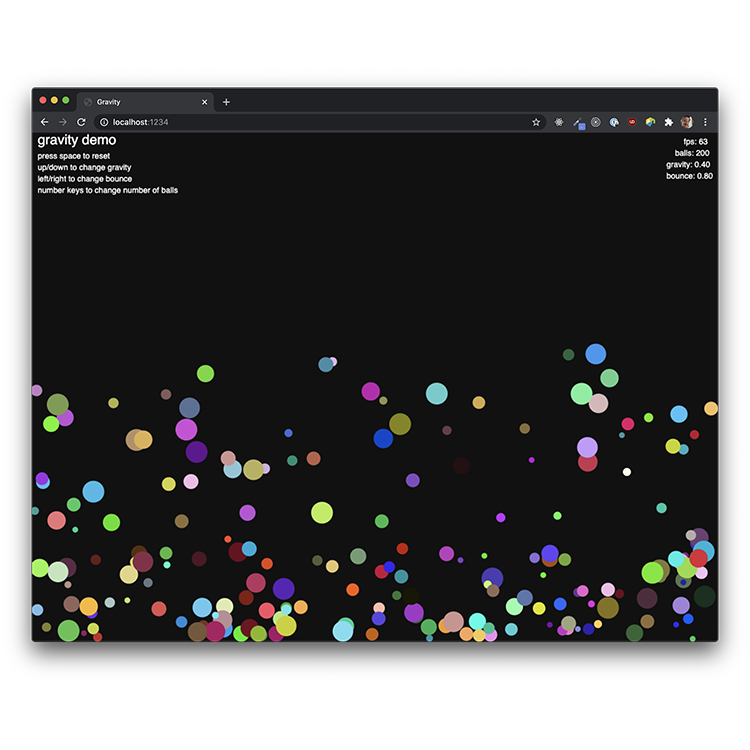
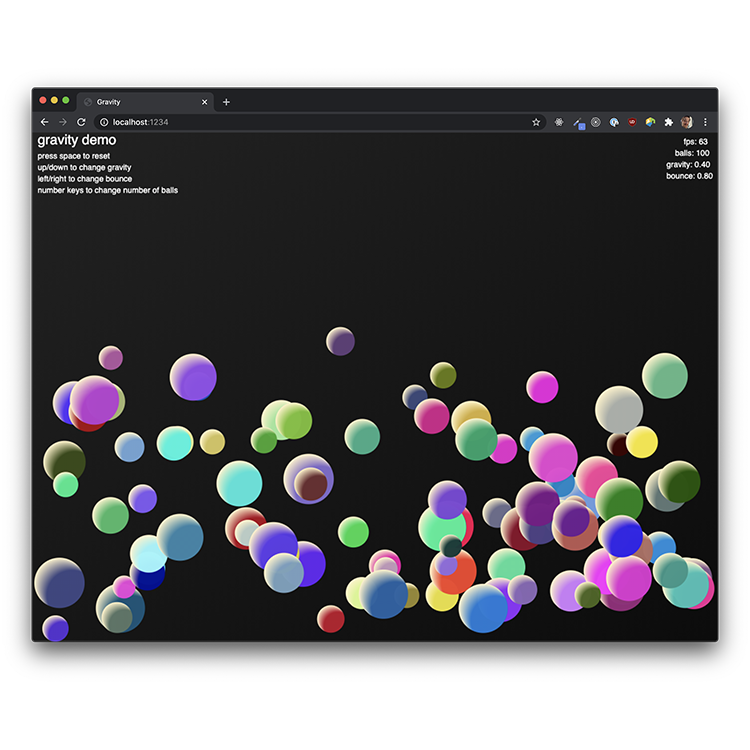
updated canvas gravity demo and card image

Changed region(s): [[0.0307, 0.46, 0.9507, 0.8587], [0.4293, 0.4293, 0.4907, 0.4907], [0.5213, 0.6133, 0.552, 0.644]]

diff --git a/pages/projects/canvas-gravity-demo/gravity.0707c32f.js b/pages/projects/canvas-gravity-demo/gravity.0707c32f.js
@@ -1,7 +1,6 @@
-<!doctype html><html><head><title>Gravity</title><style type="text/css">*,* *{margin:0;padding:0}body,html{overflow:hidden}
-/*# sourceMappingURL=/gravity.b14fdc02.css.map */</style></head><body> <canvas id="canvas" width="640" height="480"></canvas> <script>parcelRequire=function(e,r,t,n){var i,o="function"==typeof parcelRequire&&parcelRequire,u="function"==typeof require&&require;function f(t,n){if(!r[t]){if(!e[t]){var i="function"==typeof parcelRequire&&parcelRequire;if(!n&&i)return i(t,!0);if(o)return o(t,!0);if(u&&"string"==typeof t)return u(t);var c=new Error("Cannot find module '"+t+"'");throw c.code="MODULE_NOT_FOUND",c}p.resolve=function(r){return e[t][1][r]||r},p.cache={};var l=r[t]=new f.Module(t);e[t][0].call(l.exports,p,l,l.exports,this)}return r[t].exports;function p(e){return f(p.resolve(e))}}f.isParcelRequire=!0,f.Module=function(e){this.id=e,this.bundle=f,this.exports={}},f.modules=e,f.cache=r,f.parent=o,f.register=function(r,t){e[r]=[function(e,r){r.exports=t},{}]};for(var c=0;c<t.length;c++)try{f(t[c])}catch(e){i||(i=e)}if(t.length){var l=f(t[t.length-1]);"object"==typeof exports&&"undefined"!=typeof module?module.exports=l:"function"==typeof define&&define.amd?define(function(){return l}):n&&(this[n]=l)}if(parcelRequire=f,i)throw i;return f}({"dFDr":[function(require,module,exports) {
+parcelRequire=function(e,r,t,n){var i,o="function"==typeof parcelRequire&&parcelRequire,u="function"==typeof require&&require;function f(t,n){if(!r[t]){if(!e[t]){var i="function"==typeof parcelRequire&&parcelRequire;if(!n&&i)return i(t,!0);if(o)return o(t,!0);if(u&&"string"==typeof t)return u(t);var c=new Error("Cannot find module '"+t+"'");throw c.code="MODULE_NOT_FOUND",c}p.resolve=function(r){return e[t][1][r]||r},p.cache={};var l=r[t]=new f.Module(t);e[t][0].call(l.exports,p,l,l.exports,this)}return r[t].exports;function p(e){return f(p.resolve(e))}}f.isParcelRequire=!0,f.Module=function(e){this.id=e,this.bundle=f,this.exports={}},f.modules=e,f.cache=r,f.parent=o,f.register=function(r,t){e[r]=[function(e,r){r.exports=t},{}]};for(var c=0;c<t.length;c++)try{f(t[c])}catch(e){i||(i=e)}if(t.length){var l=f(t[t.length-1]);"object"==typeof exports&&"undefined"!=typeof module?module.exports=l:"function"==typeof define&&define.amd?define(function(){return l}):n&&(this[n]=l)}if(parcelRequire=f,i)throw i;return f}({"dFDr":[function(require,module,exports) {
 "use strict";function t(t,i){if(!(t instanceof i))throw new TypeError("Cannot call a class as a function")}function i(t,i){for(var s=0;s<i.length;s++){var h=i[s];h.enumerable=h.enumerable||!1,h.configurable=!0,"value"in h&&(h.writable=!0),Object.defineProperty(t,h.key,h)}}function s(t,s,h){return s&&i(t.prototype,s),h&&i(t,h),t}Object.defineProperty(exports,"__esModule",{value:!0}),exports.default=void 0;var h=function(){function i(s,h,a,e,r,n,u,o,c,d){t(this,i),this.canvas=s,this.ctx=h,this.radius=a||10,this.x=e||s.width/2,this.y=r||s.height/4,this.vx=n||0,this.vy=u||0,this.f=.97,this.color=o||"#000000",this.g=c,this.b=d}return s(i,[{key:"setGravity",value:function(t){this.g=t}},{key:"setBounce",value:function(t){this.b=t}},{key:"update",value:function(){this.x+=this.vx,this.vy+=this.g,this.y+=this.vy,this.y-this.radius<0&&(this.y=0+this.radius,this.vy*=-this.b,Math.abs(this.vx)>0&&(this.vx*=this.f)),this.y+this.radius>this.canvas.height&&(this.y=this.canvas.height-this.radius,this.vy*=-this.b,Math.abs(this.vx)>0&&(this.vx*=this.f)),this.x+this.radius>this.canvas.width&&(this.x=this.canvas.width-this.radius,this.vx*=-this.b,this.vx*=this.f),this.x-this.radius<0&&(this.x=0+this.radius,this.vx*=-this.b,this.vx*=this.f),this.draw()}},{key:"draw",value:function(){this.ctx.beginPath();var t=this.ctx.createRadialGradient(this.x,this.y,this.radius,this.x+this.radius,this.y+this.radius,this.radius);t.addColorStop(.5,this.color),t.addColorStop(0,"rgb(255,243,200)"),this.ctx.fillStyle=t,this.ctx.arc(this.x,this.y,this.radius,0,2*Math.PI,!0),this.ctx.closePath(),this.ctx.fill()}}]),i}(),a=h;exports.default=a;
 },{}],"x0J5":[function(require,module,exports) {
 "use strict";var t=e(require("./Ball"));function e(t){return t&&t.__esModule?t:{default:t}}var a,n,i=document.getElementById("canvas"),o=i.getContext("2d"),r=new Date,h=5,l=10*h,c=.5,d=.7,f=[],s=function(t,e){return n=1e3/(e-t),Math.round(n)},g=function(t){t.fillStyle="white",t.font="24px sans-serif",t.fillText("gravity demo",10,20),t.font="14px sans-serif",t.fillText("press space to reset",10,45),t.fillText("up/down to change gravity",10,65),t.fillText("left/right to change bounce",10,85),t.fillText("number keys to change number of balls",10,105),t.fillText("fps: ".concat(s(r,a)),i.width-60,20),t.fillText("balls: ".concat(l),i.width-75,40),t.fillText("gravity: ".concat(c.toFixed(2)),i.width-90,60),t.fillText("bounce: ".concat(d.toFixed(2)),i.width-90,80)},w=function(e,a){for(var n=0;n<a;n++){var r=Math.floor(25*Math.random())+20,h=Math.floor(Math.random()*(15*[-1,1][2*Math.random()|0])),l=Math.floor(25*Math.random())-10,f=Math.floor(Math.random()*i.width-r),s=Math.floor(Math.random()*(i.height/4)-r)+r,g=Math.floor(255*Math.random()),w=Math.floor(255*Math.random()),u=Math.floor(255*Math.random()),b="rgba(".concat(g,", ").concat(u,", ").concat(w,", 0.975)");e[n]=new t.default(i,o,r,f,s,h,l,b,c,d)}},u=function t(e,n){a=Date.now(),e.clearRect(0,0,i.width,i.height);var o=e.createLinearGradient(0,0,i.width,2*i.height);o.addColorStop(0,"#222222"),o.addColorStop(1,"#000000"),e.fillStyle=o,e.fillRect(0,0,i.width,i.height),g(e),n.forEach(function(t){t.setGravity(c),t.setBounce(d),t.update()}),r=a,requestAnimationFrame(function(){return t(e,n)})};window.addEventListener("resize",function(){i.height=window.innerHeight,i.width=window.innerWidth}),window.addEventListener("keydown",function(t){switch(t.code){case"Space":f.length=0,w(f,l);break;case"ArrowUp":c+=.1;break;case"ArrowDown":c-=.1;break;case"ArrowRight":d+=.1;break;case"ArrowLeft":d-=.1;break;case"Digit1":l=10*h,f.length=0,w(f,l);break;case"Digit2":l=20*h,f.length=0,w(f,l);break;case"Digit3":l=30*h,f.length=0,w(f,l);break;case"Digit4":l=40*h,f.length=0,w(f,l);break;case"Digit5":l=50*h,f.length=0,w(f,l);break;case"Digit6":l=60*h,f.length=0,w(f,l);break;case"Digit7":l=70*h,f.length=0,w(f,l);break;case"Digit8":l=80*h,f.length=0,w(f,l);break;case"Digit9":l=90*h,f.length=0,w(f,l)}}),i.height=window.innerHeight,i.width=window.innerWidth,w(f,l),u(o,f);
 },{"./Ball":"dFDr"}]},{},["x0J5"], null)
-//# sourceMappingURL=/gravity.0707c32f.js.map</script> </body></html>
+//# sourceMappingURL=/gravity.0707c32f.js.map
